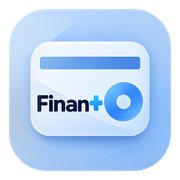
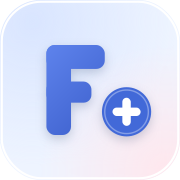
Ícone novo: F+
- favicon.ico, favicon-32, apple-touch-icon e o ícone do cabeçalho e do rodapé
- og-image: prévia de compartilhamento com o ícone novo (texto e fundo iguais)
- sombra do ícone no azul do app (#4269d8)

Claude-Session: https://claude.ai/code/session_017EtSXPf3yLMibhGMhWxkd3

diff --git a/index.html b/index.html
@@ -47,7 +47,7 @@ a:focus-visible,summary:focus-visible{outline:3px solid #1E88E5;outline-offset:3
 <header style="position: sticky; top: 0; z-index: 5; padding: 16px 24px 0">
 <nav style="max-width: 1180px; margin: 0 auto; padding: 10px 12px 10px 16px; display: flex; flex-wrap: wrap; align-items: center; justify-content: space-between; gap: 12px; border-radius: 22px; background: rgba(255,255,255,0.55); backdrop-filter: blur(20px) saturate(170%); -webkit-backdrop-filter: blur(20px) saturate(170%); border: 1px solid rgba(255,255,255,0.75); box-shadow: inset 0 1px 0 rgba(255,255,255,0.9), 0 8px 30px rgba(21,101,192,0.10)">
 <a href="#topo" style="display: flex; align-items: center; gap: 10px; text-decoration: none; color: #0F2540">
-<img src="assets/icone.png" alt="Ícone do Finan+" style="width: 44px; height: 44px; border-radius: 12px; display: block; box-shadow: 0 4px 12px rgba(30,136,229,0.25)">
+<img src="assets/icone.png" alt="Ícone do Finan+" style="width: 44px; height: 44px; border-radius: 12px; display: block; box-shadow: 0 4px 12px rgba(66,105,216,0.25)">
 <span style="font-weight: 800; font-size: 21px; letter-spacing: -0.02em">Finan+</span>
 </a>
 <div style="display: flex; flex-wrap: wrap; align-items: center; gap: 4px">
@@ -454,7 +454,7 @@ a:focus-visible,summary:focus-visible{outline:3px solid #1E88E5;outline-offset:3
 <footer style="padding: 0 24px 28px">
 <div style="max-width: 1180px; margin: 0 auto; padding: 28px; border-radius: 24px; background: rgba(255,255,255,0.5); backdrop-filter: blur(18px); -webkit-backdrop-filter: blur(18px); border: 1px solid rgba(255,255,255,0.8); box-shadow: inset 0 1px 0 #FFFFFF; display: flex; flex-wrap: wrap; justify-content: space-between; gap: 28px; font-size: 14px; color: #3F5A78">
 <div style="flex: 1 1 280px; display: flex; flex-direction: column; gap: 12px">
-<span style="display: flex; align-items: center; gap: 10px"><img src="assets/icone.png" alt="Ícone do Finan+" style="width: 32px; height: 32px; border-radius: 9px; display: block; box-shadow: 0 3px 10px rgba(30,136,229,0.2)"><span style="font-weight: 800; font-size: 16px; color: #0F2540">Finan+</span></span>
+<span style="display: flex; align-items: center; gap: 10px"><img src="assets/icone.png" alt="Ícone do Finan+" style="width: 32px; height: 32px; border-radius: 9px; display: block; box-shadow: 0 3px 10px rgba(66,105,216,0.2)"><span style="font-weight: 800; font-size: 16px; color: #0F2540">Finan+</span></span>
 <span style="line-height: 1.6">Finanças pessoais simples, privadas e de código aberto.</span>
 <span>© 2026 Juscelino Be · Licença GPL-3.0</span>
 <a href="https://pages.github.com/" style="align-self: flex-start; padding: 8px 14px; border-radius: 999px; background: rgba(255,255,255,0.75); border: 1px solid rgba(255,255,255,0.95); box-shadow: inset 0 1px 0 #FFFFFF; color: #34506E; font-size: 13px; font-weight: 700; text-decoration: none; display: flex; align-items: center; gap: 8px"><svg width="16" height="16" viewBox="0 0 16 16" fill="currentColor" aria-hidden="true"><path d="M8 0C3.58 0 0 3.58 0 8c0 3.54 2.29 6.53 5.47 7.59.4.07.55-.17.55-.38 0-.19-.01-.82-.01-1.49-2.01.37-2.53-.49-2.69-.94-.09-.23-.48-.94-.82-1.13-.28-.15-.68-.52-.01-.53.63-.01 1.08.58 1.23.82.72 1.21 1.87.87 2.33.66.07-.52.28-.87.51-1.07-1.78-.2-3.64-.89-3.64-3.95 0-.87.31-1.59.82-2.15-.08-.2-.36-1.02.08-2.12 0 0 .67-.21 2.2.82.64-.18 1.32-.27 2-.27.68 0 1.36.09 2 .27 1.53-1.04 2.2-.82 2.2-.82.44 1.1.16 1.92.08 2.12.51.56.82 1.27.82 2.15 0 3.07-1.87 3.75-3.65 3.95.29.25.54.73.54 1.48 0 1.07-.01 1.93-.01 2.2 0 .21.15.46.55.38A8.013 8.013 0 0016 8c0-4.42-3.58-8-8-8z"></path></svg>Hospedado no GitHub Pages</a>
